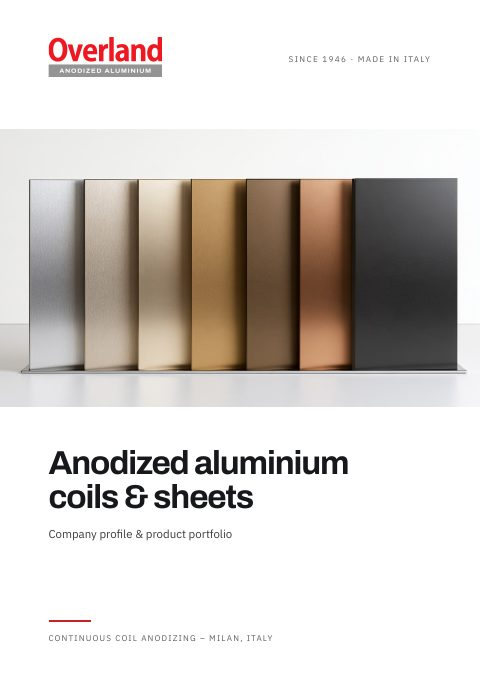
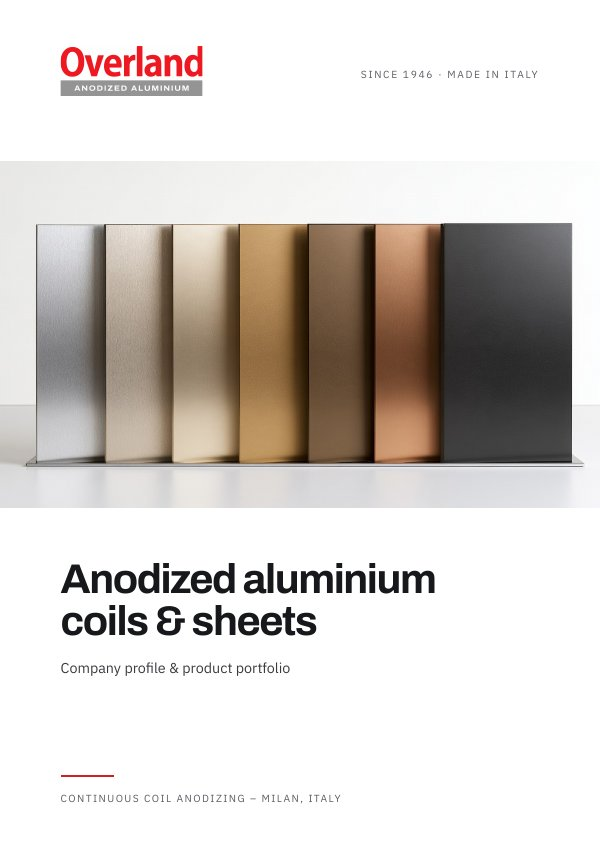
Products: brochure text left, cover right next to it; build adds content hash to CSS/JS URLs so browsers pick up new styles
Claude-Session: https://claude.ai/code/session_011y5mjJLKZTe9NLJS6Ad3bc

diff --git a/assets/css/site.css b/assets/css/site.css
@@ -236,8 +236,8 @@ p:last-child { margin-bottom: 0; }
 .imp { font-weight: 400; color: var(--muted); }
 .spec-pair { display: grid; grid-template-columns: repeat(2, minmax(0, 1fr)); gap: 40px; margin-top: 44px; }
 .spec-note { margin-top: 28px; font-size: 1rem; color: var(--muted); }
-.brochure { display: grid; grid-template-columns: auto minmax(0, 1fr); gap: clamp(24px, 5vw, 72px); align-items: center; }
-.brochure-cover img { display: block; width: clamp(112px, 16vw, 200px); height: auto; border-radius: 2px; box-shadow: 0 2px 4px rgba(0, 0, 0, .08), 0 14px 32px rgba(0, 0, 0, .16); }
+.brochure { display: grid; grid-template-columns: minmax(0, auto) auto; justify-content: start; gap: clamp(40px, 6vw, 96px); align-items: center; }
+.brochure-cover img { display: block; width: clamp(150px, 14vw, 200px); height: auto; border-radius: 2px; box-shadow: 0 2px 4px rgba(0, 0, 0, .08), 0 14px 32px rgba(0, 0, 0, .16); }
 .brochure h2 { margin-bottom: 14px; }
 .brochure p { max-width: 42ch; color: var(--muted); }
 .brochure .btn { margin-top: 24px; }
@@ -456,4 +456,4 @@ p:last-child { margin-bottom: 0; }
 .res-cards h3 { margin-bottom: 10px; font-size: 1.55rem; }
 .res-cards p { color: var(--muted); font-size: 1rem; line-height: 1.5; }
 @media (max-width: 899px) { .res-cards { grid-template-columns: 1fr; gap: 12px; } }
-@media (max-width: 599px) { .brochure { grid-template-columns: 1fr; gap: 28px; } .brochure-cover img { width: 132px; } }
+@media (max-width: 899px) { .brochure { grid-template-columns: 1fr; gap: 32px; } .brochure-cover { justify-self: start; } .brochure-cover img { width: 120px; } }

diff --git a/src/pages/products.html b/src/pages/products.html
@@ -102,13 +102,13 @@
     </section>
     <section class="section" aria-labelledby="brochure-title">
       <div class="wrap brochure">
-        <a class="brochure-cover" href="assets/docs/Overland-Brochure.pdf" download tabindex="-1" aria-hidden="true"><img src="assets/img/site/brochure-cover.jpg" alt="" width="480" height="682" loading="lazy"></a>
         <div>
           <h2 id="brochure-title">Take it with you.</h2>
           <p>Company, technology, finishes, colours and technical specifications in an 8-page brochure.</p>
           <a class="btn btn-red" href="assets/docs/Overland-Brochure.pdf" download>Download the brochure <svg class="icon" viewBox="0 0 24 24" aria-hidden="true"><path d="M12 4v15m-6-6 6 6 6-6"/></svg></a>
           <small class="brochure-meta">PDF, 2.1 MB</small>
         </div>
+        <a class="brochure-cover" href="assets/docs/Overland-Brochure.pdf" download tabindex="-1" aria-hidden="true"><img src="assets/img/site/brochure-cover.jpg" alt="" width="600" height="852" loading="lazy"></a>
       </div>
     </section>
   </main>
